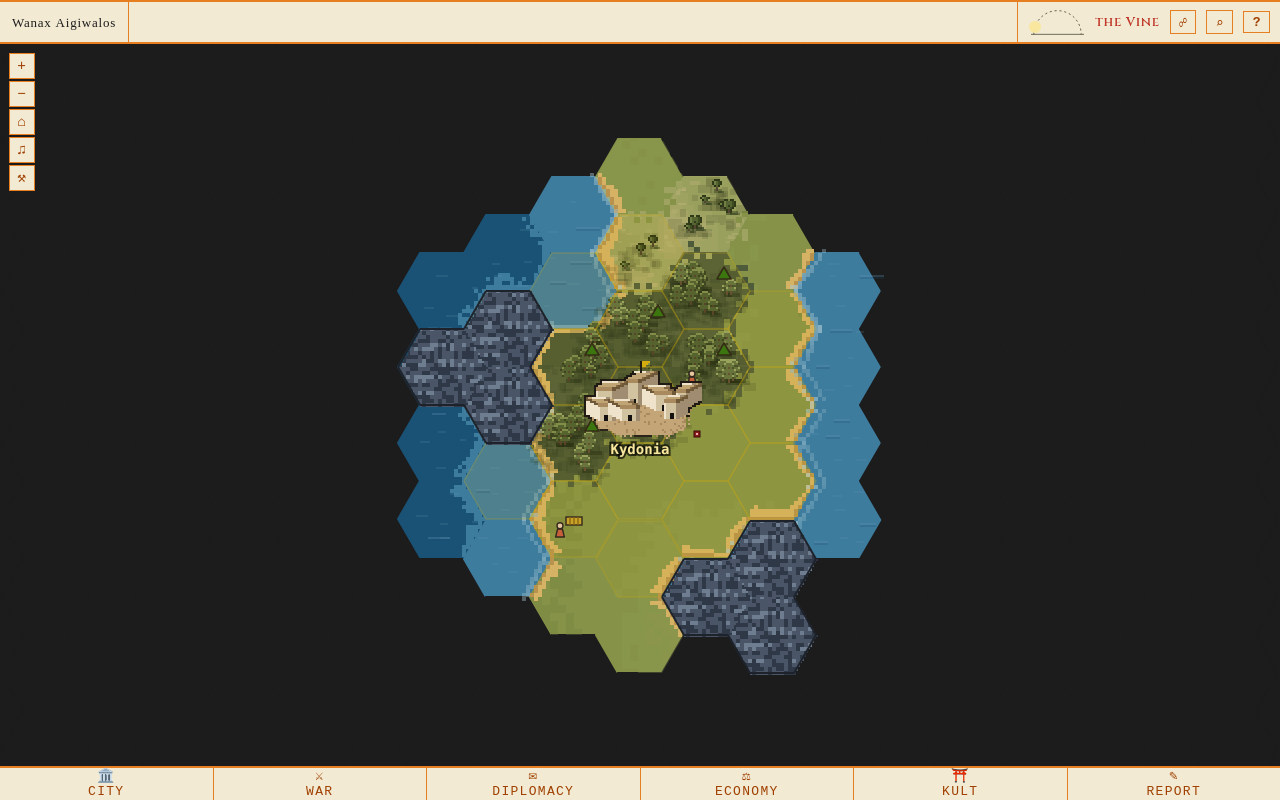
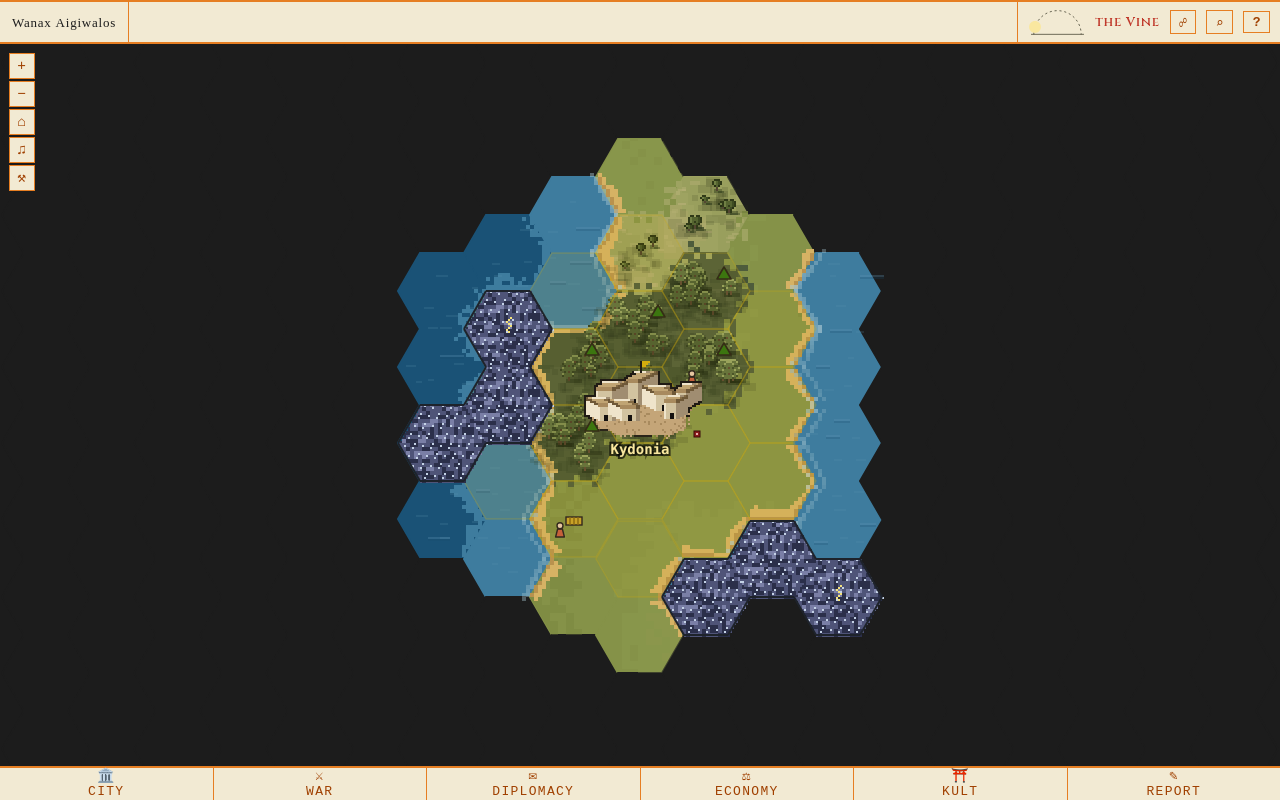
Storms: violet cloud with rain streaks so they do not read as mountains

Changed region(s): [[0.3125, 0.4062, 0.4062, 0.625], [0.5625, 0.6875, 0.6875, 0.8438]]

diff --git a/web/static/js/megaron/render/storms.js b/web/static/js/megaron/render/storms.js
@@ -4,16 +4,18 @@
 // where it was LAST SEEN as a dithered ghost — never where it is now.
 //
 // Whole pixels, a stepped palette, no blending (megaron_grafikregler): chunky
-// 2×2 cloud blocks in horizontal bands, a 1px charcoal contour only round the
-// storm's OUTER edge (weight marks the storm, not each hex), a rare lightning
-// flash. The cloud churns on a slow phase clocked off State.animFrame, never
+// 2×2 cloud blocks in horizontal bands, sliding rain streaks, a 1px charcoal
+// contour only round the storm's OUTER edge (weight marks the storm, not each
+// hex), a lightning flash on two phases in four. The cloud churns on a slow phase clocked off State.animFrame, never
 // the wall clock, so the frozen-frame rigs get the same picture every time.
 
 export const STORM_FRAMES = 40; // render frames per cloud phase; the loop wakes on a phase change
 export const STORM_PHASES = 4;
 
 const CHARCOAL = '#1E232B';
-const TONES = ['#6F7D90', '#4A5668', '#2E3846']; // light · mid · dark
+// Violet-slate, deliberately NOT the grey-blue of mountains: a storm must not read as rock.
+const TONES = ['#7A7FA6', '#4F5478', '#2B2F4A']; // light · mid · dark
+const RAIN = '#C4D2E6';
 const FLASH = '#F4E27A';
 
 // Neighbour across edge i of a flat-top hex whose corner i sits at angle i·60°
@@ -40,6 +42,11 @@ export function stormTone(x, y, phase) {
   return v < 2 ? 0 : v < 6 ? 1 : 2;
 }
 
+// Rain: short diagonal streaks that slide down-left one step per phase.
+export function stormRain(x, y, phase) {
+  return (x * 2 + y + phase * 3) % 9 === 0 && (y % 5) < 3;
+}
+
 function inHex(dx, dy, S) {
   const ax = Math.abs(dx), ay = Math.abs(dy);
   return ay <= S * Math.sqrt(3) / 2 && Math.sqrt(3) * ax + ay <= Math.sqrt(3) * S;
@@ -59,7 +66,7 @@ function hexSprite(S, phase, ghost) {
     for (let x = 0; x < w; x++) {
       if (!inHex(x - cx, y - cy, S)) continue;
       if (ghost && ((x + y) & 1)) continue; // dither: a remembered storm is half there
-      g.fillStyle = ghost ? TONES[1] : TONES[stormTone(x, y, phase)];
+      g.fillStyle = ghost ? TONES[1] : (stormRain(x, y, phase) ? RAIN : TONES[stormTone(x, y, phase)]);
       g.fillRect(x, y, 1, 1);
     }
   }
@@ -95,7 +102,7 @@ export function drawStorm(ctx, storm, { S, hexPx, hexPts, frame }) {
   });
   ctx.restore();
   // A lightning flash in one hex now and then (one phase in four).
-  if (!ghost && phase === 2) {
+  if (!ghost && (phase === 1 || phase === 3)) {
     const h = storm.hexes[(hash(storm.hexes[0].q, storm.hexes[0].r, 7) >>> 3) % 3];
     const { x, y } = hexPx(h.q, h.r);
     ctx.fillStyle = FLASH;

diff --git a/docs/reviews/storms/README.md b/docs/reviews/storms/README.md
@@ -4,7 +4,7 @@ En storm är tre sammanhängande sjöhexar mörkt moln. En av hexarna kliver en 
 stormen förblir en enhet. Den syns live i sikt, och är annars ett blekt spöke där du sist såg den.
 
 - `firefox-1to1.png` — Firefox, 1280×800, acceptansriggen @ `c59ea87`, mig 168, Hexkolls Kydonia.
-  Live storm väster om staden (35,32)(35,33)(34,33) och en till sydost (38,34)(39,33)(39,34).
+  Två live stormar, en väster och en sydost om staden. De har kryppt några steg sedan fixturen sattes (en hex per tick) — det syns på att formerna skiljer sig från startpositionerna.
 - `firefox-crop-x3.png` — västra stormen, 3× (nearest).
 
 Fixtur: västra stormens spår är flyttat med SQL till hexarna nära Kydonia (en av 52 stormar skapade
@@ -12,6 +12,6 @@ av scanen); en annan storm har en minnespost för Hexkoll (`player_storm_sightin
 sedan, ritas som blekt spöke när den ligger utom sikt). Riggen kör vidare: stormarna kryper ett steg
 per tick (120 s).
 
-Att döma (BILD): moln, kontur bara runt stormens yttre kant, att de syns över havet men under skepp,
+Att döma (BILD): violett moln med regnstråk och blixt (inte bergsgrått), kontur bara runt stormens yttre kant, att de syns över havet men under skepp,
 läsbarheten vid 1:1. Spöket (utom sikt) och hover-texten ("Storm — drifting SE" / "last seen on day N")
 syns i riggen genom att svepa kartan bort från staden.
